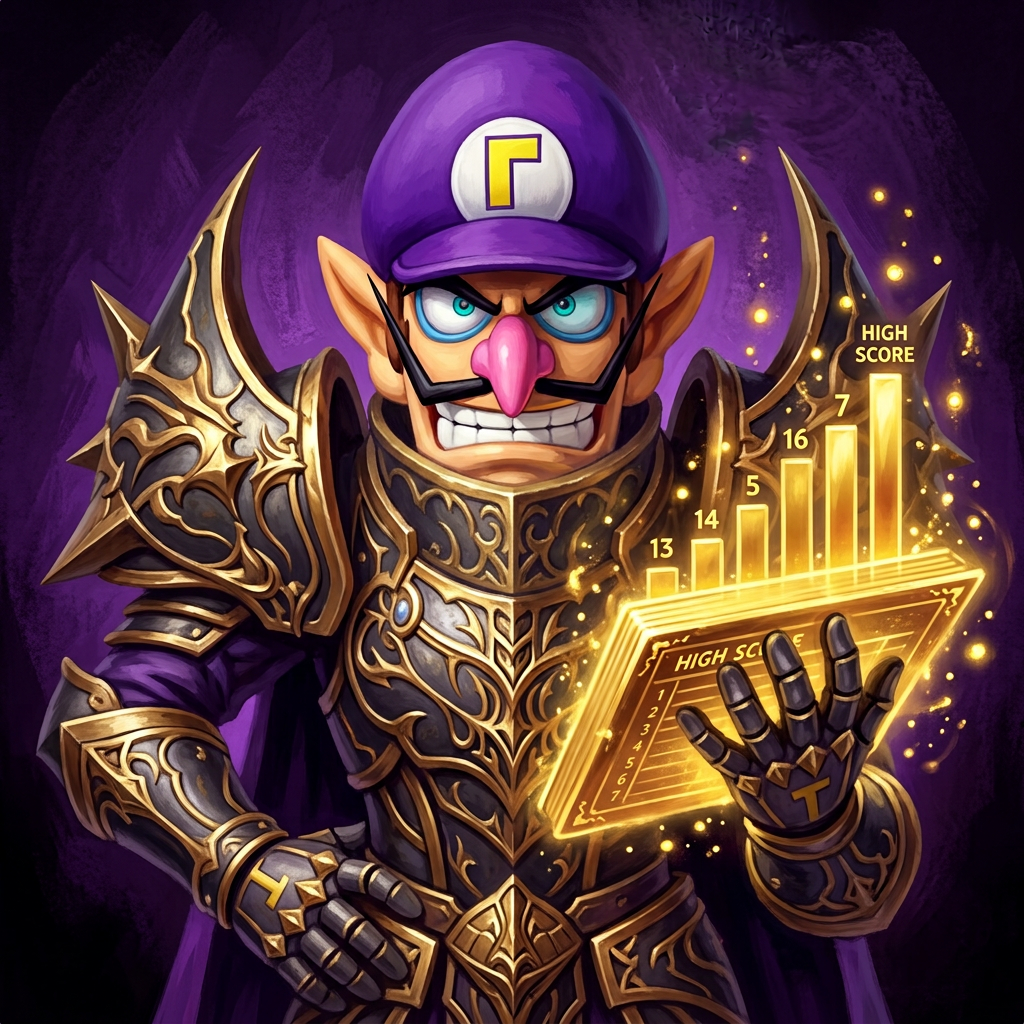
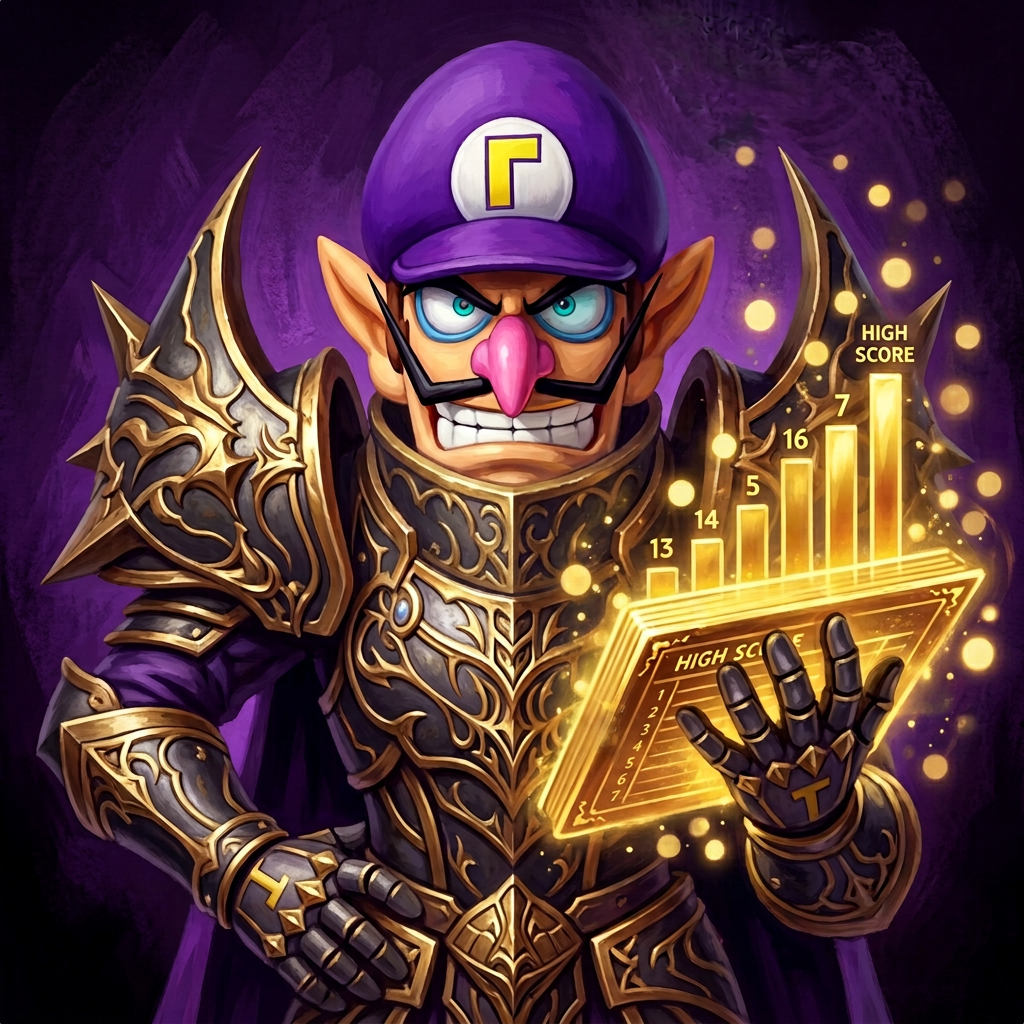
Freshness registry + standing order, Library commentary, de-sparkled XP hub art
- Freshness system (nothing goes quietly stale again):
  - docs/system-freshness.json: one asOf date per living system (diet,
    legion briefing, RNN), seeded from verified sources
  - tools/check-freshness.py: stalest-first lag report vs currentDate.json
    with source re-verification; fails on DUE (enforced past maxLagDays)
    or DRIFT (registry disagrees with source). Wired into check-all.py.
    Current report: legion briefing STALE at 40d (unenforced, fallback
    data), RNN OK at 1d, diet OK at 0d.
  - Reputation-Matrix2/gemini.md: new STANDING ORDER (stalest system
    becomes the next filing) + pointers in both READMEs' routine jobs.
- Waluigi's Cut for the Library reclamation (12 sections, 7389w, 1.05x
  source; strict checker green). Retells the full session: the reader,
  Not-My-Library, Barckelhaven, the overkill, the Toad's third instance,
  the job offer, the marble, Danger Deldkur, Red, the mushroom room,
  the circle, and the door. No invented facts.
- hub_xp.png: edited out the Gemini-style sparkle cluster around the bar
  chart (soft gold bokeh instead); composition and lettering untouched.

diff --git a/tools/check-freshness.py b/tools/check-freshness.py
@@ -1,0 +1,128 @@
+#!/usr/bin/env python3
+"""System freshness: which living system is most stale, stalest-first.
+
+Compares each registry entry in docs/system-freshness.json against the
+archive clock (Reputation-Matrix2/data/currentDate.json) using the house
+absDay calendar (year*365 + monthIndex*30 + day), and re-verifies entries
+against their source files so the registry cannot silently drift.
+
+Exit 1 only when: an enforced system exceeds its maxLagDays (DUE), a
+registry date disagrees with its source (DRIFT), or a registry date is in
+the future. Unenforced stale systems are reported, never failed.
+
+Usage:
+    python3 tools/check-freshness.py
+"""
+import glob
+import json
+import re
+import sys
+from pathlib import Path
+
+ROOT = Path(__file__).resolve().parents[1]
+
+
+def absday(d):
+    return d['year'] * 365 + d['monthIndex'] * 30 + d['day']
+
+
+def load(rel):
+    with open(ROOT / rel, encoding='utf-8') as fh:
+        return json.load(fh)
+
+
+def month_index(name):
+    months = load('Reputation-Matrix2/data/calendarMonths.json')
+    items = months if isinstance(months, list) else months.get('months', [])
+    for i, m in enumerate(items):
+        nm = (m.get('name') if isinstance(m, dict) else m) or ''
+        if str(nm).lower() == str(name).lower():
+            return i
+    return None
+
+
+def verify_source(v):
+    """Return the live date dict from the source, or None if unverifiable."""
+    if 'pattern' in v:
+        text = (ROOT / v['file']).read_text(encoding='utf-8')
+        m = re.search(v['pattern'], text)
+        if not m:
+            return None
+        return {'year': int(m.group(1)), 'monthIndex': int(m.group(2)),
+                'day': int(m.group(3))}
+    if 'latestScript' in v:
+        cands = sorted(glob.glob(str(ROOT / v['latestScript'])))
+        cands = [c for c in cands if 'pending' not in Path(c).name]
+        if not cands:
+            return None
+        d = json.loads(Path(cands[-1]).read_text(encoding='utf-8'))
+        m = re.match(r'(\w+)\s+(\d+),\s*(\d+)\s*BF',
+                     str(d.get(v.get('field', 'huntDay'), '')), re.I)
+        if not m:
+            return None
+        mi = month_index(m.group(1))
+        if mi is None:
+            return None
+        return {'year': int(m.group(3)), 'monthIndex': mi,
+                'day': int(m.group(2))}
+    return 'n/a'
+
+
+def main():
+    reg = load('docs/system-freshness.json')
+    now = load('Reputation-Matrix2/data/currentDate.json')
+    now_d = {'year': now['year'], 'monthIndex': now['monthIndex'],
+             'day': now['day']}
+    now_abs = absday(now_d)
+    print(f"archive now: day {now_d['day']}, month {now_d['monthIndex'] + 1}, "
+          f"{now_d['year']} BF")
+    rows, fails = [], []
+    for key, s in reg['systems'].items():
+        asof, label = s['asOf'], s.get('label', key)
+        lag = now_abs - absday(asof)
+        live = verify_source(s['verify']) if s.get('verify') else 'n/a'
+        drift = isinstance(live, dict) and live != asof
+        future = lag < 0
+        enforced = s.get('enforced', False)
+        maxlag = s.get('maxLagDays')
+        breach = enforced and maxlag is not None and lag > maxlag
+        if drift or future:
+            status = 'DRIFT' if drift else 'FUTURE'
+            fails.append(key)
+        elif breach:
+            status = 'DUE'
+            fails.append(key)
+        elif lag > 30:
+            status = 'STALE'
+        else:
+            status = 'OK'
+        rows.append((lag, key, label, asof, live, status, s))
+    rows.sort(reverse=True)
+    for lag, key, label, asof, live, status, s in rows:
+        dat = f"day {asof['day']}, month {asof['monthIndex'] + 1}, {asof['year']}"
+        extra = ''
+        if isinstance(live, dict):
+            extra = (f" (source: day {live['day']}, month "
+                     f"{live['monthIndex'] + 1}, {live['year']})")
+        elif live is None:
+            extra = ' (source unreadable)'
+        print(f'  [{status}] {label}: filed {dat} — lag {lag}d{extra}')
+        if s.get('playbook'):
+            print(f"         playbook: {s['playbook']}")
+    try:
+        p = load('tools/rnn-scripts/pending-news-articles.json')
+        print(f"  RNN pending: {len(p.get('pending', []))} articles "
+              f"(episode at ~{p.get('threshold', 10)})")
+    except Exception:
+        pass
+    stalest = rows[0]
+    print(f'stalest: {stalest[2]} ({stalest[1]}) at {stalest[0]}d lag')
+    if fails:
+        print(f"FAIL freshness: {', '.join(fails)}")
+        return 1
+    print(f'PASS freshness ({len(rows)} systems tracked)')
+    return 0
+
+
+if __name__ == '__main__':
+    sys.exit(main())

diff --git a/tools/check-all.py b/tools/check-all.py
@@ -53,6 +53,7 @@ def main() -> int:
         ("annotation variety", [py, "tools/check-annotation-variety.py"], ROOT),
         ("boot refs", [py, "tools/check-boot-refs.py"], ROOT),
         ("wah notes", [py, "tools/check-wahnotes.py"], ROOT),
+        ("freshness", [py, "tools/check-freshness.py"], ROOT),
         ("background blurbs", [py, "tools/check-background.py"], ROOT),
         ("dossier assessments", [py, "tools/check-assessments.py"], ROOT),
         ("home feed contract", [py, "tools/check-home-feed.py"], ROOT),

diff --git a/Reputation-Matrix2/gemini.md b/Reputation-Matrix2/gemini.md
@@ -78,6 +78,28 @@ When the prose says an invoice, order, ledger, telegram, contract, or passport e
 6.  Inline trigger inside prose: `[[prop:prop_id|invoice]]`.
 7.  Verify: `props.json` parses, every `items` / `articles` key resolves, and the tile opens.
 
+## ⚠ STANDING ORDER — Stalest System First
+
+**Living systems rot. Before starting maintenance work, run the freshness check and work the stalest system into the plan.** This rule is self-executing: do not wait to be asked.
+
+### The trigger
+
+Run `python3 ../tools/check-freshness.py` (from `Reputation-Matrix2/`) at the start of any maintenance turn. It prints every tracked system stalest-first with its lag in in-world days against `data/currentDate.json`. The stalest entry is the next filing — fold it into the session's work (its `playbook` says how) instead of letting it slide another turn.
+
+### The procedure
+
+1.  **Read the report.** `python3 ../tools/check-freshness.py`. `DUE` (enforced, past `maxLagDays`) and `DRIFT` (registry disagrees with source) fail the suite — fix those first.
+2.  **File the system, not the registry.** Work the entry's `playbook` (e.g. `../docs/DIET_UPDATE_CHECKLIST.md`): advance the real date, file the real outcomes. Never invent outcomes or backdate to make the number move.
+3.  **Update the registry.** Set the entry's `asOf` in `../docs/system-freshness.json` to the date actually filed, then re-run the check — the `verify` hook confirms registry and source agree.
+4.  **Track new systems.** When a session creates a system with its own clock, add a registry entry (`label`, `asOf`, `source`, `verify`, `playbook`). `enforced: true` only once the playbook exists and the lag is genuinely kept; until then track unenforced.
+
+### Files that belong to this system
+
+| File | Role |
+|---|---|
+| `../docs/system-freshness.json` | The registry — one `asOf` date per living system. Hand-maintained, machine-verified |
+| `../tools/check-freshness.py` | Stalest-first report; fails on `DUE`/`DRIFT`. Wired into `check-all.py` |
+
 ## Adding New Map Pages
 
 To maintain application stability and a consistent user experience, all new tactical map pages **must** adhere to the standardized map grouping system. Creating custom, one-off UI or filtering logic for a single map page can conflict with the global data loaders for POIs and tactical units, causing them to fail to render.

diff --git a/README.md b/README.md
@@ -318,6 +318,11 @@ Seven habits explain nearly every decision in this repository:
 - **Mages Guild Codex emoji spam** → `python3 tools/gen-mages-guild-code.py --check-emoji`
   (also filters new pages on every generate).
 - **Refresh update stamps** → `node generate-updates.js`.
+- **Check system freshness** → `python3 tools/check-freshness.py`
+  (stalest-first lag report for every living system vs `currentDate.json`;
+  registry: `docs/system-freshness.json`; the standing order that makes the
+  stalest system the next filing lives in
+  [`Reputation-Matrix2/gemini.md`](Reputation-Matrix2/gemini.md)).
 
 ## Never do these
 

diff --git a/Reputation-Matrix2/README.md b/Reputation-Matrix2/README.md
@@ -132,6 +132,10 @@ what to create from new data.
   system. Update or review it when filings add Diet votes, Imperial laws,
   province pressure, representative changes, or Legion deployments justified by
   politics.
+- **Freshness** — `../docs/system-freshness.json` tracks one `asOf` date per
+  living system; `python3 ../tools/check-freshness.py` prints the stalest-first
+  report. The standing order (stalest system becomes the next filing) is in
+  [`gemini.md`](gemini.md).
 - **Annotations** — quote text that exists in the article. Do not use comments
   to add missing facts.
 
